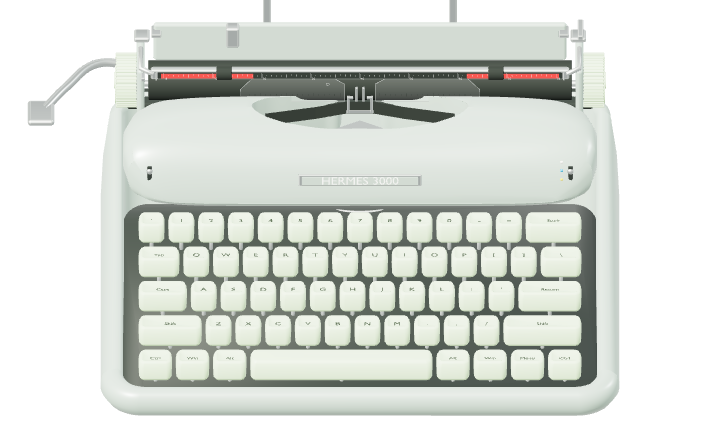
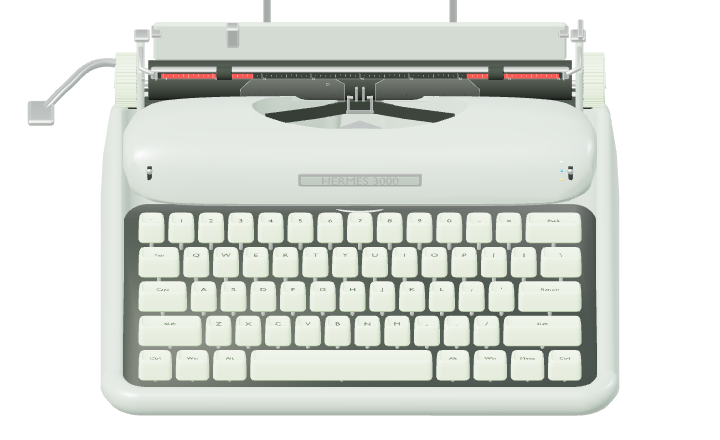
Refine all three typewriter surface details

diff --git a/html/js/typing-details.js b/html/js/typing-details.js
@@ -1,0 +1,67 @@
+/* Visible-surface refinement only. Scene dimensions are authored web values;
+ * original keyboard adaptation and articulated pivots remain unchanged. */
+globalThis.LSRefineTypewriterDetails = function(T,root,model){
+ const nodes={};root.traverse(o=>nodes[o.name]=o);
+ function roundRect(x0,z0,x1,z1,r){const p=new T.Shape();p.moveTo(x0+r,z0);p.lineTo(x1-r,z0);p.quadraticCurveTo(x1,z0,x1,z0+r);p.lineTo(x1,z1-r);p.quadraticCurveTo(x1,z1,x1-r,z1);p.lineTo(x0+r,z1);p.quadraticCurveTo(x0,z1,x0,z1-r);p.lineTo(x0,z0+r);p.quadraticCurveTo(x0,z0,x0+r,z0);return p;}
+ // Smooth duplicated import vertices on the cast shell, while retaining sharp
+ // folded edges. This removes polygon-shaped highlight patches at the corners.
+ if(model==='hermes3000')for(const name of ['Ribbon_Hood','Cast_Perimeter']){
+  const mesh=nodes[name];mesh.geometry=mesh.geometry.clone();const g=mesh.geometry,p=g.attributes.position,n=g.attributes.normal,groups=new Map();
+  for(let i=0;i<p.count;i++){const k=[p.getX(i),p.getY(i),p.getZ(i)].map(v=>Math.round(v*1e6)).join(',');if(!groups.has(k))groups.set(k,[]);groups.get(k).push(i);}
+  const original=n.array.slice();for(const indices of groups.values())for(const i of indices){const base=new T.Vector3().fromArray(original,i*3),sum=new T.Vector3();for(const j of indices){const next=new T.Vector3().fromArray(original,j*3);if(base.dot(next)>.70)sum.add(next);}sum.normalize();n.setXYZ(i,sum.x,sum.y,sum.z);}n.needsUpdate=true;
+ }
+ // Corresponding straight/corner samples avoid twisted quads. Long keys keep
+ // a long central crown instead of collapsing all their top faces to one point.
+ const cache=new Map(),lettera=model==='lettera32',olympia=model==='olympiasm3';
+ root.traverse(o=>{
+  if(!o.isMesh||!o.name.startsWith('Cap_'))return;
+  o.geometry.computeBoundingBox();const b=o.geometry.boundingBox,w=(b.max.x-b.min.x)/2,d=(b.max.z-b.min.z)/2;
+  const id=w+':'+d;
+  if(!cache.has(id)){
+   const bottom=lettera?-.0058:olympia?-.0092:-.0085,peak=lettera?.0060:olympia?.0074:.0072,center=lettera?.0048:olympia?.0051:.0050;
+   const core=Math.max(.00005,w-d),r=Math.min(.0037,d*.44),N=96,positions=[],index=[];
+   const profile=[[w-.0006,d-.0006,bottom],[w,d,bottom+.0014],[w-.00025,d-.00025,.0016],[w-.0007,d-.0007,peak-.0018],[w-.0013,d-.0013,peak-.00045],[w-.0020,d-.0020,peak],[w-.0027,d-.0027,peak-.0003],[w-.0038,d-.0038,center+.0002],[core+.0012,.0012,center]];
+   for(const [x,z,y] of profile){const path=roundRect(-x,-z,x,z,Math.min(r,z*.8));for(const c of path.curves)for(let k=0;k<N/8;k++){const p=c.getPoint(k/(N/8));positions.push(p.x,y,p.y);}}
+   const M=profile.length;
+   for(let j=0;j<M-1;j++)for(let i=0;i<N;i++){const a=j*N+i,b=j*N+(i+1)%N,c=(j+1)*N+(i+1)%N,d=(j+1)*N+i;index.push(a,d,b,b,d,c);}
+   const baseCenter=positions.length/3;positions.push(0,bottom,0,0,center,0);
+   for(let i=0;i<N;i++){const next=(i+1)%N;index.push(baseCenter,i,next,baseCenter+1,(M-1)*N+next,(M-1)*N+i);}
+   const g=new T.BufferGeometry();g.setAttribute('position',new T.Float32BufferAttribute(positions,3));g.setIndex(index);g.computeVertexNormals();
+   // Local tangents produce continuous normals without the diagonal shading
+   // bias of wide, skinny triangles across the space bar and modifier crowns.
+   const p=g.attributes.position,old=g.attributes.normal,n=new Float32Array(p.count*3),v=(j,i)=>j<0?new T.Vector3(0,bottom,0):j>=M?new T.Vector3(0,center,0):new T.Vector3().fromBufferAttribute(p,j*N+(i+N)%N);
+   for(let j=0;j<M;j++)for(let i=0;i<N;i++){const along=v(j,i+1).sub(v(j,i-1)),across=v(j+1,i).sub(v(j-1,i)),normal=along.cross(across).normalize(),k=j*N+i;if(normal.dot(new T.Vector3().fromBufferAttribute(old,k))<0)normal.negate();normal.toArray(n,k*3);}
+   new T.Vector3(0,-1,0).toArray(n,baseCenter*3);new T.Vector3(0,1,0).toArray(n,(baseCenter+1)*3);
+   g.setAttribute('normal',new T.Float32BufferAttribute(n,3));cache.set(id,g);
+  }
+  o.geometry=cache.get(id);
+ });
+ // Lay each existing legend onto its dished crown; raising all labels by a
+ // fixed offset either buried strokes under the rim or left them floating.
+ root.updateMatrixWorld(true);
+ root.traverse(o=>{
+  if(!o.isMesh||!o.name.startsWith('Glyph_'))return;
+  const cap=nodes['Cap_'+o.name.slice(6)];if(!cap)return;
+  o.geometry=o.geometry.clone();const p=o.geometry.attributes.position,local=o.matrix.clone(),inverse=local.clone().invert(),unrotate=cap.quaternion.clone().invert();
+  cap.geometry.computeBoundingBox();const b=cap.geometry.boundingBox,w=(b.max.x-b.min.x)/2,d=(b.max.z-b.min.z)/2,peak=lettera?.0060:olympia?.0074:.0072,center=lettera?.0048:olympia?.0051:.0050;
+  const mix=(a,b,t)=>a+(b-a)*Math.max(0,Math.min(1,t));
+  for(let i=0;i<p.count;i++){
+   const v=new T.Vector3().fromBufferAttribute(p,i).applyMatrix4(local).applyQuaternion(unrotate),inset=Math.min(w-Math.abs(v.x),d-Math.abs(v.z));
+   const y=inset<.0027?mix(peak,peak-.0003,(inset-.002)/.0007):inset<.0038?mix(peak-.0003,center+.0002,(inset-.0027)/.0011):mix(center+.0002,center,(inset-.0038)/Math.max(.001,d-.005));
+   v.y=y+.00016;v.applyQuaternion(cap.quaternion).applyMatrix4(inverse);p.setXYZ(i,v.x,v.y,v.z);
+  }
+  p.needsUpdate=true;o.geometry.computeVertexNormals();
+ });
+ // Hermes has an inset metal-framed nameplate, distinct from the painted cover.
+ if(model==='hermes3000'){
+  const metal=new T.MeshStandardMaterial({name:'Hermes_Badge_Metal',color:0xb7c0bb,metalness:1,roughness:.22});
+  const frame=nodes.Badge_Frame,path=roundRect(-.0555,-.00625,.0555,.00625,.0018),hole=roundRect(-.0534,-.0045,.0534,.0045,.0011);path.holes.push(new T.Path(hole.getPoints(32)));
+  const g=new T.ExtrudeGeometry(path,{depth:.0012,bevelEnabled:true,bevelThickness:.0003,bevelSize:.0003,bevelSegments:3,curveSegments:12});g.translate(0,0,-.0006);frame.geometry=g;frame.material=metal;
+  nodes.Badge_Inlay.material=new T.MeshStandardMaterial({name:'Hermes_Badge_Inlay',color:new T.Color(.23,.29,.25),metalness:.22,roughness:.40});
+  const letters=nodes.Hermes_Badge;letters.geometry=letters.geometry.clone();const p=letters.geometry.attributes.position;for(let i=0;i<p.count;i++)p.setY(i,p.getY(i)*15);p.needsUpdate=true;letters.geometry.computeVertexNormals();letters.material=metal;
+ }
+ // Metal thickness behind the Lettera's printed split badge catches a restrained edge reflection.
+ if(lettera){const badge=nodes.Lettera_Split_Badge,shape=roundRect(-.0488,-.0063,.0488,.0063,.00065),g=new T.ExtrudeGeometry(shape,{depth:.0008,bevelEnabled:true,bevelSize:.00025,bevelThickness:.0002,bevelSegments:3,curveSegments:8});g.translate(0,0,-.0015);const backing=new T.Mesh(g,new T.MeshStandardMaterial({name:'Lettera_Badge_Edge',color:0xa5adb0,metalness:1,roughness:.27}));backing.name='Lettera_Badge_Backing';badge.add(backing);}
+ root.userData.finishRevision=1;
+ return root;
+};

diff --git a/tools/typing_app.html b/tools/typing_app.html
@@ -240,15 +240,15 @@
 <dialog id="tbModelGallery" class="tb-model-gallery" aria-labelledby="tbModelGalleryTitle" aria-describedby="tbModelGalleryIntro">
  <header class="tb-model-gallery-head"><div><p>LETSUM · THE WRITING ROOM</p><h2 id="tbModelGalleryTitle" tabindex="-1">오늘의 문장을 함께할 타자기</h2><p id="tbModelGalleryIntro">마음에 드는 한 대를 고르세요. 종이 위에서 나만의 필사가 시작됩니다.</p></div><button id="tbModelGalleryBack" type="button">서가로 돌아가기 ↗</button></header>
  <div class="tb-model-grid"><article class="tb-model-card" data-gallery-model="hermes3000">
- <div class="tb-model-scene"><div class="tb-model-sheet"><span>01 / THE WRITING ROOM</span><h3>에르메스 3000</h3><p>부드러운 곡선, 민트빛 건반</p><small>SWITZERLAND</small></div><img class="tb-model-photo" src="img/typewriters/hermes3000-preview.png?v=2" alt="Hermes 3000 정면 모델" width="720" height="440"></div>
+ <div class="tb-model-scene"><div class="tb-model-sheet"><span>01 / THE WRITING ROOM</span><h3>에르메스 3000</h3><p>부드러운 곡선, 민트빛 건반</p><small>SWITZERLAND</small></div><img class="tb-model-photo" src="img/typewriters/hermes3000-preview.png?v=3" alt="Hermes 3000 정면 모델" width="720" height="440"></div>
  <div class="tb-model-copy"><p class="tb-model-maker">E. Paillard & Cie · 스위스</p><h3>Hermes 3000</h3><p class="tb-model-desc">둥글게 감싼 금속 몸체와 민트색 키캡. 차분한 색감으로 문장에 집중하는 시간.</p>
  <div class="tb-model-writer"><img src="img/typewriters/people/larry-mcmurtry.png" alt="래리 맥머트리" width="64" height="76"><div><b>래리 맥머트리</b><span>Larry McMurtry</span><p>소설가 · 『Lonesome Dove』의 작가. Hermes 3000을 사용했고, 2006년 골든글로브 수상 소감에서 자신의 타자기에 감사를 전했습니다. <a href="https://site.xavier.edu/polt/typewriters/typingwriters.pdf" target="_blank" rel="noopener">기록 ↗</a></p></div></div>
  <button type="button" data-choose-model="hermes3000">에르메스 3000으로 시작 <span aria-hidden="true">→</span></button></div></article><article class="tb-model-card" data-gallery-model="lettera32">
- <div class="tb-model-scene"><div class="tb-model-sheet"><span>02 / THE WRITING ROOM</span><h3>올리베티 레테라 32</h3><p>낮고 간결한 이탈리아의 선</p><small>ITALY</small></div><img class="tb-model-photo" src="img/typewriters/lettera32-preview.png?v=2" alt="Olivetti Lettera 32 정면 모델" width="720" height="440"></div>
+ <div class="tb-model-scene"><div class="tb-model-sheet"><span>02 / THE WRITING ROOM</span><h3>올리베티 레테라 32</h3><p>낮고 간결한 이탈리아의 선</p><small>ITALY</small></div><img class="tb-model-photo" src="img/typewriters/lettera32-preview.png?v=3" alt="Olivetti Lettera 32 정면 모델" width="720" height="440"></div>
  <div class="tb-model-copy"><p class="tb-model-maker">Olivetti · 이탈리아</p><h3>Olivetti Lettera 32</h3><p class="tb-model-desc">연청색 상판과 검정 키캡, 낮게 이어지는 몸체. 마르첼로 니촐리가 디자인한 휴대용 타자기.</p>
  <div class="tb-model-writer"><img src="img/typewriters/people/cormac-mccarthy.jpg" alt="코맥 매카시" width="64" height="76"><div><b>코맥 매카시</b><span>Cormac McCarthy</span><p>소설가 · 『The Road』의 작가. 오랫동안 사용한 Lettera 32를 2009년 경매에 내놓아 산타페 연구소를 지원했습니다. <a href="https://www.christies.com/en/lot/lot-5273848" target="_blank" rel="noopener">기록 ↗</a></p></div></div>
  <button type="button" data-choose-model="lettera32">올리베티 레테라 32로 시작 <span aria-hidden="true">→</span></button></div></article><article class="tb-model-card" data-gallery-model="olympiasm3">
- <div class="tb-model-scene"><div class="tb-model-sheet"><span>03 / THE WRITING ROOM</span><h3>올림피아 SM3</h3><p>짙은 녹색과 단단한 금속의 결</p><small>WEST GERMANY</small></div><img class="tb-model-photo" src="img/typewriters/olympiasm3-preview.png?v=2" alt="Olympia SM3 정면 모델" width="720" height="440"></div>
+ <div class="tb-model-scene"><div class="tb-model-sheet"><span>03 / THE WRITING ROOM</span><h3>올림피아 SM3</h3><p>짙은 녹색과 단단한 금속의 결</p><small>WEST GERMANY</small></div><img class="tb-model-photo" src="img/typewriters/olympiasm3-preview.png?v=3" alt="Olympia SM3 정면 모델" width="720" height="440"></div>
  <div class="tb-model-copy"><p class="tb-model-maker">Olympia Werke · 서독</p><h3>Olympia SM3</h3><p class="tb-model-desc">올리브색 요철 도장, 짙은 녹색 키캡과 크롬 테두리. 캐리지가 올라가는 시프트 구조.</p>
  <div class="tb-model-writer"><img src="img/typewriters/people/woody-allen.jpg" alt="우디 앨런" width="64" height="76"><div><b>우디 앨런</b><span>Woody Allen</span><p>영화감독 · 각본가. Olympia의 역사 자료에는 SM3를 사용해 영화 각본을 집필한 인물로 소개되어 있습니다. <a href="https://www.olympia-werke.com/" target="_blank" rel="noopener">기록 ↗</a></p></div></div>
  <button type="button" data-choose-model="olympiasm3">올림피아 SM3로 시작 <span aria-hidden="true">→</span></button></div></article></div>
@@ -267,9 +267,10 @@
 <script src="js/typing.js?v=32"></script>
 <script src="js/typing-3d.js?v=6"></script>
 <script src="js/typing-retro-focus.js?v=10"></script>
-<script src="js/typing-lettera.js?v=2"></script>
-<script src="js/typing-olympia.js?v=3"></script>
-<script src="js/typing-hermes.js?v=36"></script>
+<script src="js/typing-lettera.js?v=3"></script>
+<script src="js/typing-olympia.js?v=4"></script>
+<script src="js/typing-details.js?v=1"></script>
+<script src="js/typing-hermes.js?v=37"></script>
 <script src="js/typing-model-gallery.js?v=1"></script>
 <script src="js/pv.js?v=1" defer></script>
 </body>

diff --git a/html/type/index.html b/html/type/index.html
@@ -240,15 +240,15 @@
 <dialog id="tbModelGallery" class="tb-model-gallery" aria-labelledby="tbModelGalleryTitle" aria-describedby="tbModelGalleryIntro">
  <header class="tb-model-gallery-head"><div><p>LETSUM · THE WRITING ROOM</p><h2 id="tbModelGalleryTitle" tabindex="-1">오늘의 문장을 함께할 타자기</h2><p id="tbModelGalleryIntro">마음에 드는 한 대를 고르세요. 종이 위에서 나만의 필사가 시작됩니다.</p></div><button id="tbModelGalleryBack" type="button">서가로 돌아가기 ↗</button></header>
  <div class="tb-model-grid"><article class="tb-model-card" data-gallery-model="hermes3000">
- <div class="tb-model-scene"><div class="tb-model-sheet"><span>01 / THE WRITING ROOM</span><h3>에르메스 3000</h3><p>부드러운 곡선, 민트빛 건반</p><small>SWITZERLAND</small></div><img class="tb-model-photo" src="/img/typewriters/hermes3000-preview.png?v=2" alt="Hermes 3000 정면 모델" width="720" height="440"></div>
+ <div class="tb-model-scene"><div class="tb-model-sheet"><span>01 / THE WRITING ROOM</span><h3>에르메스 3000</h3><p>부드러운 곡선, 민트빛 건반</p><small>SWITZERLAND</small></div><img class="tb-model-photo" src="/img/typewriters/hermes3000-preview.png?v=3" alt="Hermes 3000 정면 모델" width="720" height="440"></div>
  <div class="tb-model-copy"><p class="tb-model-maker">E. Paillard & Cie · 스위스</p><h3>Hermes 3000</h3><p class="tb-model-desc">둥글게 감싼 금속 몸체와 민트색 키캡. 차분한 색감으로 문장에 집중하는 시간.</p>
  <div class="tb-model-writer"><img src="/img/typewriters/people/larry-mcmurtry.png" alt="래리 맥머트리" width="64" height="76"><div><b>래리 맥머트리</b><span>Larry McMurtry</span><p>소설가 · 『Lonesome Dove』의 작가. Hermes 3000을 사용했고, 2006년 골든글로브 수상 소감에서 자신의 타자기에 감사를 전했습니다. <a href="https://site.xavier.edu/polt/typewriters/typingwriters.pdf" target="_blank" rel="noopener">기록 ↗</a></p></div></div>
  <button type="button" data-choose-model="hermes3000">에르메스 3000으로 시작 <span aria-hidden="true">→</span></button></div></article><article class="tb-model-card" data-gallery-model="lettera32">
- <div class="tb-model-scene"><div class="tb-model-sheet"><span>02 / THE WRITING ROOM</span><h3>올리베티 레테라 32</h3><p>낮고 간결한 이탈리아의 선</p><small>ITALY</small></div><img class="tb-model-photo" src="/img/typewriters/lettera32-preview.png?v=2" alt="Olivetti Lettera 32 정면 모델" width="720" height="440"></div>
+ <div class="tb-model-scene"><div class="tb-model-sheet"><span>02 / THE WRITING ROOM</span><h3>올리베티 레테라 32</h3><p>낮고 간결한 이탈리아의 선</p><small>ITALY</small></div><img class="tb-model-photo" src="/img/typewriters/lettera32-preview.png?v=3" alt="Olivetti Lettera 32 정면 모델" width="720" height="440"></div>
  <div class="tb-model-copy"><p class="tb-model-maker">Olivetti · 이탈리아</p><h3>Olivetti Lettera 32</h3><p class="tb-model-desc">연청색 상판과 검정 키캡, 낮게 이어지는 몸체. 마르첼로 니촐리가 디자인한 휴대용 타자기.</p>
  <div class="tb-model-writer"><img src="/img/typewriters/people/cormac-mccarthy.jpg" alt="코맥 매카시" width="64" height="76"><div><b>코맥 매카시</b><span>Cormac McCarthy</span><p>소설가 · 『The Road』의 작가. 오랫동안 사용한 Lettera 32를 2009년 경매에 내놓아 산타페 연구소를 지원했습니다. <a href="https://www.christies.com/en/lot/lot-5273848" target="_blank" rel="noopener">기록 ↗</a></p></div></div>
  <button type="button" data-choose-model="lettera32">올리베티 레테라 32로 시작 <span aria-hidden="true">→</span></button></div></article><article class="tb-model-card" data-gallery-model="olympiasm3">
- <div class="tb-model-scene"><div class="tb-model-sheet"><span>03 / THE WRITING ROOM</span><h3>올림피아 SM3</h3><p>짙은 녹색과 단단한 금속의 결</p><small>WEST GERMANY</small></div><img class="tb-model-photo" src="/img/typewriters/olympiasm3-preview.png?v=2" alt="Olympia SM3 정면 모델" width="720" height="440"></div>
+ <div class="tb-model-scene"><div class="tb-model-sheet"><span>03 / THE WRITING ROOM</span><h3>올림피아 SM3</h3><p>짙은 녹색과 단단한 금속의 결</p><small>WEST GERMANY</small></div><img class="tb-model-photo" src="/img/typewriters/olympiasm3-preview.png?v=3" alt="Olympia SM3 정면 모델" width="720" height="440"></div>
  <div class="tb-model-copy"><p class="tb-model-maker">Olympia Werke · 서독</p><h3>Olympia SM3</h3><p class="tb-model-desc">올리브색 요철 도장, 짙은 녹색 키캡과 크롬 테두리. 캐리지가 올라가는 시프트 구조.</p>
  <div class="tb-model-writer"><img src="/img/typewriters/people/woody-allen.jpg" alt="우디 앨런" width="64" height="76"><div><b>우디 앨런</b><span>Woody Allen</span><p>영화감독 · 각본가. Olympia의 역사 자료에는 SM3를 사용해 영화 각본을 집필한 인물로 소개되어 있습니다. <a href="https://www.olympia-werke.com/" target="_blank" rel="noopener">기록 ↗</a></p></div></div>
  <button type="button" data-choose-model="olympiasm3">올림피아 SM3로 시작 <span aria-hidden="true">→</span></button></div></article></div>
@@ -267,9 +267,10 @@
 <script src="/js/typing.js?v=32"></script>
 <script src="/js/typing-3d.js?v=6"></script>
 <script src="/js/typing-retro-focus.js?v=10"></script>
-<script src="/js/typing-lettera.js?v=2"></script>
-<script src="/js/typing-olympia.js?v=3"></script>
-<script src="/js/typing-hermes.js?v=36"></script>
+<script src="/js/typing-lettera.js?v=3"></script>
+<script src="/js/typing-olympia.js?v=4"></script>
+<script src="/js/typing-details.js?v=1"></script>
+<script src="/js/typing-hermes.js?v=37"></script>
 <script src="/js/typing-model-gallery.js?v=1"></script>
 </body>
 </html>

diff --git a/html/js/typing-hermes.js b/html/js/typing-hermes.js
@@ -45,6 +45,7 @@
    const asset=await new GLTFLoader().loadAsync('/img/typewriters/hermes3000.glb?v=6');
    if(selectedModel==='lettera32')globalThis.LSBuildLettera32(T,asset.scene);
    if(selectedModel==='olympiasm3')globalThis.LSBuildOlympiaSM3(T,asset.scene);
+   globalThis.LSRefineTypewriterDetails(T,asset.scene,selectedModel);
    const scene=new T.Scene(),nodes={};scene.add(asset.scene);
    asset.scene.traverse(o=>{nodes[o.name]=o;if(o.isLight||o.isCamera)o.visible=false;if(o.isMesh){o.castShadow=!/Glyph_|Tick_|Ruler_Number|Knob_Reeding/.test(o.name);o.receiveShadow=true;}});
    // Invisible depth surface lets the HTML sheet hide the paper table behind it.
@@ -76,9 +77,11 @@
    for(const texture of [grain,finish]){texture.wrapS=texture.wrapT=T.RepeatWrapping;texture.magFilter=T.LinearFilter;texture.minFilter=T.LinearMipmapLinearFilter;texture.generateMipmaps=true;texture.needsUpdate=true;}
    const materials=new Map();asset.scene.traverse(o=>{if(!o.isMesh)return;const old=o.material;if(materials.has(old)){o.material=materials.get(old);return;}
     let m=old;
-    if(old.name==='Hermes_Sage_Enamel'){m=new T.MeshPhysicalMaterial();T.MeshStandardMaterial.prototype.copy.call(m,old);m.defines.PHYSICAL='';if(selectedModel!=='lettera32')m.color.lerp(new T.Color(.34,.32,.27),.16);m.roughness=.46;m.map=finish;m.roughnessMap=finish;m.clearcoat=.10;m.clearcoatRoughness=.42;m.bumpMap=grain;m.bumpScale=.00019;m.envMapIntensity=.48;}
+    if(old.name==='Hermes_Sage_Enamel'){m=new T.MeshPhysicalMaterial();T.MeshStandardMaterial.prototype.copy.call(m,old);m.defines.PHYSICAL='';if(selectedModel!=='lettera32')m.color.lerp(new T.Color(.34,.32,.27),.16);m.roughness=.33;m.map=finish;m.roughnessMap=finish;m.clearcoat=.32;m.clearcoatRoughness=.23;m.bumpMap=grain;m.bumpScale=.00009;m.envMapIntensity=.68;}
     else if(old.name==='Lettera_Blue_Enamel'){m=old.clone();m.bumpMap=grain;m.bumpScale=.000025;m.envMapIntensity=1.05;}
     else if(old.name==='Olympia_Crinkle_Enamel'){m=old.clone();m.envMapIntensity=.32;}
+    else if(old.name==='Hermes_Badge_Metal'){m=old.clone();m.envMapIntensity=1.05;}
+    else if(old.name==='Lettera_Badge_Edge'){m=old.clone();m.envMapIntensity=.85;}
     else if(old.name==='Olympia_Badge_Metal'){m=old.clone();m.envMapIntensity=.85;}
     else if(old.name==='Olympia_Chrome'){m=old.clone();m.envMapIntensity=1.05;}
     else if(old.name==='Mint_Keycaps'){m=old.clone();m.color.lerp(new T.Color(.48,.43,.31),.13);m.bumpMap=grain;m.bumpScale=.000065;m.envMapIntensity=.38;}
@@ -88,8 +91,10 @@
     materials.set(old,m);o.material=m;
    });
    // Keep small steel mechanisms readable under the broad reflection cards.
-   const mechanismMetal=new T.MeshStandardMaterial({color:selectedModel==='olympiasm3'?new T.Color(.48,.49,.46):new T.Color(.22,.25,.23),metalness:.95,roughness:.32,envMapIntensity:selectedModel==='olympiasm3'?.85:.55});
+   const mechanismMetal=new T.MeshStandardMaterial({color:new T.Color(.20,.23,.21),metalness:.95,roughness:.38,envMapIntensity:.68});
    asset.scene.traverse(o=>{if(o.isMesh&&/^(TypebarArm_|TypeSlug_|Type_Guide_|Ribbon_Carrier_)/.test(o.name))o.material=mechanismMetal;});
+   const slugMetal=new T.MeshStandardMaterial({color:new T.Color(.32,.34,.31),metalness:1,roughness:.28,envMapIntensity:.72});
+   asset.scene.traverse(o=>{if(o.isMesh&&/^TypeSlug_/.test(o.name))o.material=slugMetal;if(o.isMesh&&/^Olympia_Segment_Divider_/.test(o.name))o.material=mechanismMetal;});
    nodes.Paper.material=new T.MeshBasicMaterial({colorWrite:false,depthWrite:true,side:T.DoubleSide});
    for(const name of ['Card_Holder_Left','Card_Holder_Right']){
     const m=nodes[name].material;m.transparent=true;m.opacity=.16;m.depthWrite=false;m.side=T.DoubleSide;
@@ -103,9 +108,9 @@
    // One shared cap material; local-space tone survives key travel and separates the crown from the skirt.
    const capSource=nodes.Cap_KeyA.material,capMaterial=new T.MeshPhysicalMaterial();
    T.MeshStandardMaterial.prototype.copy.call(capMaterial,capSource);capMaterial.defines.PHYSICAL='';
-   capMaterial.name=selectedModel==='olympiasm3'?'Olympia_Keycaps_Contour':selectedModel==='lettera32'?'Lettera_Keycaps_Contour':'Mint_Keycaps_Contour';capMaterial.vertexColors=true;capMaterial.roughness=.39;
-   capMaterial.clearcoat=selectedModel==='olympiasm3'?.60:.11;capMaterial.clearcoatRoughness=selectedModel==='olympiasm3'?.13:.36;capMaterial.envMapIntensity=selectedModel==='olympiasm3'?.85:selectedModel==='lettera32'?.55:.24;
-   if(selectedModel==='olympiasm3')capMaterial.roughness=.22;
+   capMaterial.name=selectedModel==='olympiasm3'?'Olympia_Keycaps_Contour':selectedModel==='lettera32'?'Lettera_Keycaps_Contour':'Mint_Keycaps_Contour';capMaterial.vertexColors=true;capMaterial.roughness=.29;
+   capMaterial.clearcoat=selectedModel==='olympiasm3'?.44:.30;capMaterial.clearcoatRoughness=selectedModel==='olympiasm3'?.21:.24;capMaterial.envMapIntensity=selectedModel==='olympiasm3'?.85:selectedModel==='lettera32'?.55:.24;
+   if(selectedModel==='olympiasm3')capMaterial.roughness=.27;
    if(selectedModel==='lettera32'){capMaterial.roughness=.24;capMaterial.clearcoat=.48;capMaterial.clearcoatRoughness=.15;capMaterial.envMapIntensity=.72;}
    const shadedCaps=new Set(),smoothRange=(a,b,v)=>{const t=Math.max(0,Math.min(1,(v-a)/(b-a)));return t*t*(3-2*t);};
    asset.scene.traverse(o=>{
@@ -115,7 +120,7 @@
      const p=g.attributes.position,n=g.attributes.normal,c=new Float32Array(p.count*3);
      for(let i=0;i<p.count;i++){
       const y=p.getY(i),top=smoothRange(.25,.82,n.getY(i))*smoothRange(-.001,.0035,y);
-      const skirt=.56+.15*smoothRange(-.008,.003,y),rim=.045*smoothRange(.0048,.0072,y);
+      const skirt=.64+.13*smoothRange(-.008,.003,y),rim=.045*smoothRange(.0048,.0072,y);
       const tone=skirt*(1-top)+(1.02+rim)*top;
       c[i*3]=tone*.97;c[i*3+1]=tone;c[i*3+2]=tone*.96;
      }

diff --git a/html/js/typing-lettera.js b/html/js/typing-lettera.js
@@ -40,7 +40,7 @@ globalThis.LSBuildLettera32 = function buildLettera32(T, root, document=globalTh
   {path:rounded(-.219,-.152,.219,.170,.013),y:(x,z)=>bodyTop(z)-.002},
   {path:rounded(-.217,-.149,.217,.168,.012),y:(x,z)=>bodyTop(z)-.007},
   {path:rounded(-.217,-.149,.217,.168,.012),y:()=>.014}
- ],128,true),blue);
+ ],384,true),blue);
  // Removable low cover: broad folded front face, flatter crown and two inner wings.
  const cover=rounded(-.224,-.151,.224,-.026,.020),hole=new T.Path();
  hole.moveTo(-.119,-.075);hole.quadraticCurveTo(-.131,-.077,-.128,-.089);hole.lineTo(-.120,-.113);
@@ -50,12 +50,26 @@ globalThis.LSBuildLettera32 = function buildLettera32(T, root, document=globalTh
  cover.holes.push(hole);
  const hood=new T.ExtrudeGeometry(cover,{depth:.003,steps:1,bevelEnabled:true,bevelThickness:.0014,bevelSize:.0022,bevelSegments:5,curveSegments:24});
  let dense=hood.index?hood.toNonIndexed():hood;const dp=dense.attributes.position,du=dense.attributes.uv,positions=[],uvs=[];
- function split(a,b,c,ua,ub,uc,depth){
-  if(depth===0){positions.push(...a,...b,...c);uvs.push(...ua,...ub,...uc);return;}
-  const mid=(a,b)=>a.map((v,i)=>(v+b[i])/2),ab=mid(a,b),bc=mid(b,c),ca=mid(c,a),uab=mid(ua,ub),ubc=mid(ub,uc),uca=mid(uc,ua);
-  split(a,ab,ca,ua,uab,uca,depth-1);split(ab,b,bc,uab,ub,ubc,depth-1);split(ca,bc,c,uca,ubc,uc,depth-1);split(ab,bc,ca,uab,ubc,uca,depth-1);
+ // Split shared edges by the same coordinate rule on both adjoining faces.
+ // Independent per-triangle subdivision left T-junctions after bending the lid.
+ const midpoint=(a,b)=>a.map((v,i)=>(v+b[i])/2);
+ let faces=[];
+ for(let i=0;i<dp.count;i+=3)faces.push([0,1,2].map(k=>({p:[dp.getX(i+k),dp.getY(i+k),dp.getZ(i+k)],uv:[du.getX(i+k),du.getY(i+k)]})));
+ for(let pass=0;pass<8;pass++){
+  let changed=false;const next=[];
+  for(const [a,b,c] of faces){
+   const long=(a,b)=>Math.abs(a.p[0]-b.p[0])>.028||Math.abs(a.p[1]-b.p[1])>.0035;
+   const mask=(long(a,b)?1:0)|(long(b,c)?2:0)|(long(c,a)?4:0);
+   if(!mask){next.push([a,b,c]);continue;}changed=true;
+   const mid=(a,b)=>({p:midpoint(a.p,b.p),uv:midpoint(a.uv,b.uv)}),ab=mid(a,b),bc=mid(b,c),ca=mid(c,a);
+   const parts={1:[[a,ab,c],[ab,b,c]],2:[[b,bc,a],[bc,c,a]],4:[[c,ca,b],[ca,a,b]],
+    3:[[b,bc,ab],[a,ab,c],[ab,bc,c]],5:[[a,ab,ca],[ab,b,c],[ab,c,ca]],6:[[c,ca,bc],[a,b,ca],[b,bc,ca]],
+    7:[[a,ab,ca],[ab,b,bc],[ca,bc,c],[ab,bc,ca]]};
+   next.push(...parts[mask]);
+  }
+  faces=next;if(!changed)break;
  }
- for(let i=0;i<dp.count;i+=3){const a=[dp.getX(i),dp.getY(i),dp.getZ(i)],b=[dp.getX(i+1),dp.getY(i+1),dp.getZ(i+1)],c=[dp.getX(i+2),dp.getY(i+2),dp.getZ(i+2)];split(a,b,c,[du.getX(i),du.getY(i)],[du.getX(i+1),du.getY(i+1)],[du.getX(i+2),du.getY(i+2)],2);}
+ for(const face of faces)for(const v of face){positions.push(...v.p);uvs.push(...v.uv);}
  hood.setAttribute('position',new T.Float32BufferAttribute(positions,3));hood.setAttribute('uv',new T.Float32BufferAttribute(uvs,2));hood.deleteAttribute('normal');hood.setIndex(null);hood.clearGroups();if(dense!==hood)dense.dispose();
  const hp=hood.attributes.position;
  // Smooth the original bevel normals before bending. Transforming those normals
@@ -117,7 +131,7 @@ globalThis.LSBuildLettera32 = function buildLettera32(T, root, document=globalTh
  const badge=new T.Mesh(new T.PlaneGeometry(.097,.0121),new T.MeshStandardMaterial({map:badgeTexture,roughness:.42,metalness:.18}));badge.name='Lettera_Split_Badge';badge.position.set(0,hoodY(-.046)+crown(0,-.046)+.005,-.046);badge.rotation.x=-.85;root.add(badge);
  // Continuous removable-cover seam follows the actual edge, including corners.
  const seamPoints=cover.getSpacedPoints(160).slice(0,-1).map(p=>new T.Vector3(p.x,hoodY(p.y)-.0005+crown(p.x,p.y),p.y));
- const coverSeam=new T.Mesh(new T.TubeGeometry(new T.CatmullRomCurve3(seamPoints,true),192,.00055,6,true),dark);coverSeam.name='Lettera_Cover_Seam';root.add(coverSeam);
+ const coverSeam=new T.Mesh(new T.TubeGeometry(new T.CatmullRomCurve3(seamPoints,true),192,.0008,8,true),dark);coverSeam.name='Lettera_Cover_Seam';root.add(coverSeam);
  // Silver return lever with the broad rounded paddle visible in the manufacturer's photo.
  hide(['Return_Lever_Chrome','Return_Lever_Paddle']);
  const lp=new T.Shape();lp.moveTo(0,-.003);lp.quadraticCurveTo(-.035,-.001,-.050,.022);lp.lineTo(-.091,.061);lp.quadraticCurveTo(-.102,.076,-.091,.080);lp.quadraticCurveTo(-.082,.081,-.075,.069);lp.lineTo(-.043,.030);lp.quadraticCurveTo(-.027,.007,0,.003);lp.closePath();

diff --git a/tools/typewriter-preview.html b/tools/typewriter-preview.html
@@ -1,5 +1,6 @@
 <!doctype html><html lang="ko"><meta charset="utf-8"><title>LETSUM 모델 이미지 렌더</title><style>body{background:#eee7d8}img{width:360px}p{font:14px sans-serif}</style>
-<script src="/js/typing-lettera.js?v=2"></script><script src="/js/typing-olympia.js?v=3"></script>
+<script src="/js/typing-lettera.js?v=3"></script><script src="/js/typing-olympia.js?v=4"></script>
+<script src="/js/typing-details.js?v=1"></script>
 <p id="status">모델 렌더링 중</p><main></main>
 <script type="module">
 import * as T from '/js/vendor/three/three.module.js';import {GLTFLoader} from '/js/vendor/three/GLTFLoader.js';
@@ -9,6 +10,7 @@ for(const [pos,size,power,color] of [[[-2,3,2],[2.8,3.5,1],3.4,0xfff5df],[[3,1,0
 const pmrem=new T.PMREMGenerator(renderer),env=pmrem.fromScene(room,.025);const buffer=await fetch('/img/typewriters/hermes3000.glb?v=6').then(r=>r.arrayBuffer());
 for(const id of ['hermes3000','lettera32','olympiasm3']){
  const asset=await new Promise((resolve,reject)=>new GLTFLoader().parse(buffer.slice(0),'',resolve,reject));if(id==='lettera32')LSBuildLettera32(T,asset.scene);if(id==='olympiasm3')LSBuildOlympiaSM3(T,asset.scene);
+ LSRefineTypewriterDetails(T,asset.scene,id);
  asset.scene.getObjectByName('Ribbon_Path_Red').material=asset.scene.getObjectByName('Ribbon_Path_Black').material;
  const scene=new T.Scene();scene.environment=env.texture;scene.add(asset.scene);
  asset.scene.traverse(o=>{if(o.isCamera||o.isLight||o.name==='Paper')o.visible=false;});

diff --git a/html/js/typing-olympia.js b/html/js/typing-olympia.js
@@ -36,7 +36,7 @@ globalThis.LSBuildOlympiaSM3 = function buildOlympiaSM3(T, root, document=global
   {path:rounded(-.216,-.152,.216,.169,.015),y:(x,z)=>bodyTop(z)-.002},
   {path:rounded(-.212,-.148,.212,.165,.012),y:(x,z)=>bodyTop(z)-.008},
   {path:rounded(-.212,-.148,.212,.165,.012),y:()=>.013}
- ],128,true),blue);
+ ],384,true),blue);
  // Broad curved opening with inward swept shoulders; exposed fan of typebars.
  const cover=rounded(-.226,-.153,.226,-.021,.027),hole=new T.Path();
  hole.moveTo(-.127,-.072);hole.bezierCurveTo(-.134,-.066,-.131,-.059,-.119,-.057);

diff --git a/docs/TYPEWRITER_DETAIL_REVIEW.md b/docs/TYPEWRITER_DETAIL_REVIEW.md
@@ -1,0 +1,34 @@
+# 세 타자기 외형 재점검 · 2026-10-26
+
+## 검토 범위와 근거
+
+사용자가 제공한 정면·측면·상부 참고 이미지와 현재 서비스의 동일 조명 렌더를 비교했다. 외형 개선은 사진에서 구분되는 표면, 곡률, 이음새와 반사에 한정한다. 제작 수치는 웹 장면의 설계값이며 실측 CAD 치수가 아니다. 현재 61키 배열과 확장 폭, 검정 리본, 종이 표시 및 입력 편의 기능은 요청에 따른 웹용 변형이다.
+
+기구의 명칭과 동작은 제조사 설명서 복제본으로 대조했다. 이 설명서는 광택 수치·도장 색상·세부 부품 두께를 확정하는 자료로 사용하지 않았다.
+
+- [Paillard Hermes 3000 설명서](https://site.xavier.edu/polt/typewriters/Hermes3000.pdf)
+- [Olivetti Lettera 32 설명서](https://site.xavier.edu/polt/typewriters/OlivettiLettera32_ManualEN.pdf)
+- [Olympia SM3 설명서](https://site.xavier.edu/polt/typewriters/OlympiaSM3.pdf)
+
+## 피드백과 반영
+
+| 대상 | 확인한 부족한 표현 | 이번 보강 |
+|---|---|---|
+| 공통 키캡 | 긴 키의 윗면이 한 점으로 모여 접힌 것처럼 반사되고, 윗면과 두께면의 연결이 불균일 | 직선·모서리를 대응시킨 닫힌 곡면으로 다시 구성. 긴 중앙 영역을 유지하는 스페이스바·기능키 형상, 연속 표면 법선, 오목한 윗면을 따라 붙는 각인 적용 |
+| Hermes 3000 | 도장 면의 광택과 금속 명판의 차이가 약하고 모서리에 다각형 음영이 보임 | 외장 중복 정점의 법선을 완만한 경계에서 연결, 도장 미세 요철 완화 및 광택 조정. 명판은 별도 금속 테두리·어두운 인레이·양각 글자 두께로 분리 |
+| Lettera 32 | 상판 굴절 구간에서 물결 같은 반사, 얇고 평평해 보이는 분할 명판, 약한 커버 이음새 | 곡률 방향에 맞춘 공유 모서리 분할로 반사와 틈을 보정. 외장 둘레 샘플 증가, 커버 이음새 명료화, 명판 뒤 금속 두께 추가. 낮은 검정 키캡의 윤곽과 광택 분리 |
+| Olympia SM3 | 긴 키 윗면의 접힌 반사, 지나치게 밝은 활자부 때문에 금속 부품이 한 덩어리처럼 보임 | 키캡 중앙 곡면 재구성, 검녹색 키의 광택 폭 조정. 활자봉·활자 팁·분리판의 금속 밝기와 거칠기 차등 적용, 외장 둘레 곡면 샘플 증가 |
+
+이미 구현된 Olympia 양각 로고와 타원 단면 크롬 띠, 모델별 상판과 캐리지 부품은 유지한다. 조명은 동일 환경에서 비교했으며, 선택 화면 썸네일도 새 형상으로 다시 렌더링했다.
+
+## 확인
+
+- Hermes / Lettera / Olympia 각각 구조·동작 회귀검사 통과.
+- 키캡·외장 닫힌 표면, 긴 키 윗면의 실제 표면 존재, 정상 방향 단위 법선 검사.
+- 키 입력, 한글 IME, 타격점, 리본, 캐리지, 종이 이송 ON/OFF, 모델 교체·입력 보존 검사.
+- 모바일·세로 태블릿 전체 종이/본체 프레이밍 범위 검사.
+- 정면과 사선 브라우저 렌더로 키캡, 상판, 명판 및 부품 간 구분 확인.
+
+## 남는 한계
+
+실물 스캔이나 제조사 도면에서 얻은 모델은 아니다. 개별 기기의 마모·도료색, 숨겨진 링크 구조, 로고의 공장 원형 획과 조명별 반사까지 동일하다고 주장하지 않는다. 특히 실물의 키 수·폭을 그대로 재현하지 않는 웹용 배열이므로 실제 제품과의 전체 비율 차이는 남는다. 이후 실물 일치도를 더 높이려면 동일 기종·세대의 정면/측면 보정 사진과 실측 치수, 또는 정당하게 사용할 수 있는 스캔 자료가 필요하다.

diff --git a/docs/HANDOFF.md b/docs/HANDOFF.md
@@ -414,3 +414,9 @@ img.save("sample.png")
 - 글로벌 헤더/전체 도구막대는 접고 서가·화면·설정 도구만 작게 유지. ‘화면’에서 기존 디자인/가져오기/도움말 접근. 표지·다음 쪽·진행 통계는 첫 장면 아래에서 그대로 사용. 모드 종료 시 기존 레이아웃 복원.
 - 세로로 긴 화면에서도 테이블 끝/카메라 근접면에 패턴이 잘리지 않도록 테이블 깊이·직교 카메라 거리 보정. 실제 종이 이송 선택은 유지.
 - 확인: 390×844 및 768×1024 브라우저 프레임에서 기본 구도/메뉴/설정/하단 정보 확인. 세 모델에 390×844·768×1024·1024×1366 전체 용지·본체·캐리지 범위 검증 추가, 기존 회귀검증 통과.
+
+### 2026-10-26 — 세 모델 외형 재점검·키캡/금속 마감
+- 공통 `typing-details.js` 추가: 닫힌 곡면 키캡, 긴 키의 중앙 크라운 유지, 접선 기반 연속 법선, 오목한 면을 따라 각인 배치. 키 피벗/61키 배열/종이·IME 좌표는 유지.
+- Hermes 외장 완만한 경계 법선 연결, 도장 광택/미세 요철 조정, 금속 명판 테두리·인레이·양각 두께. Lettera 외장 샘플과 공유 모서리 기반 상판 분할, 커버 이음새, 분할 명판 금속 backing. Olympia 외장 샘플 보강, 키 광택 및 활자봉/팁/분리판 재질 차등.
+- 선택용 세 모델 썸네일 재렌더. typing-hermes v37 / typing-lettera v3 / typing-olympia v4 / typing-details v1 / preview v3.
+- 세 모델 회귀 검사 통과: 닫힌 형상·키캡 정상 법선/중앙 표면, 입력·종이 이송·모델 교체·세로 화면 범위. 브라우저 정면/사선 렌더 확인. 사실 근거·남는 실측 한계는 `TYPEWRITER_DETAIL_REVIEW.md`.
